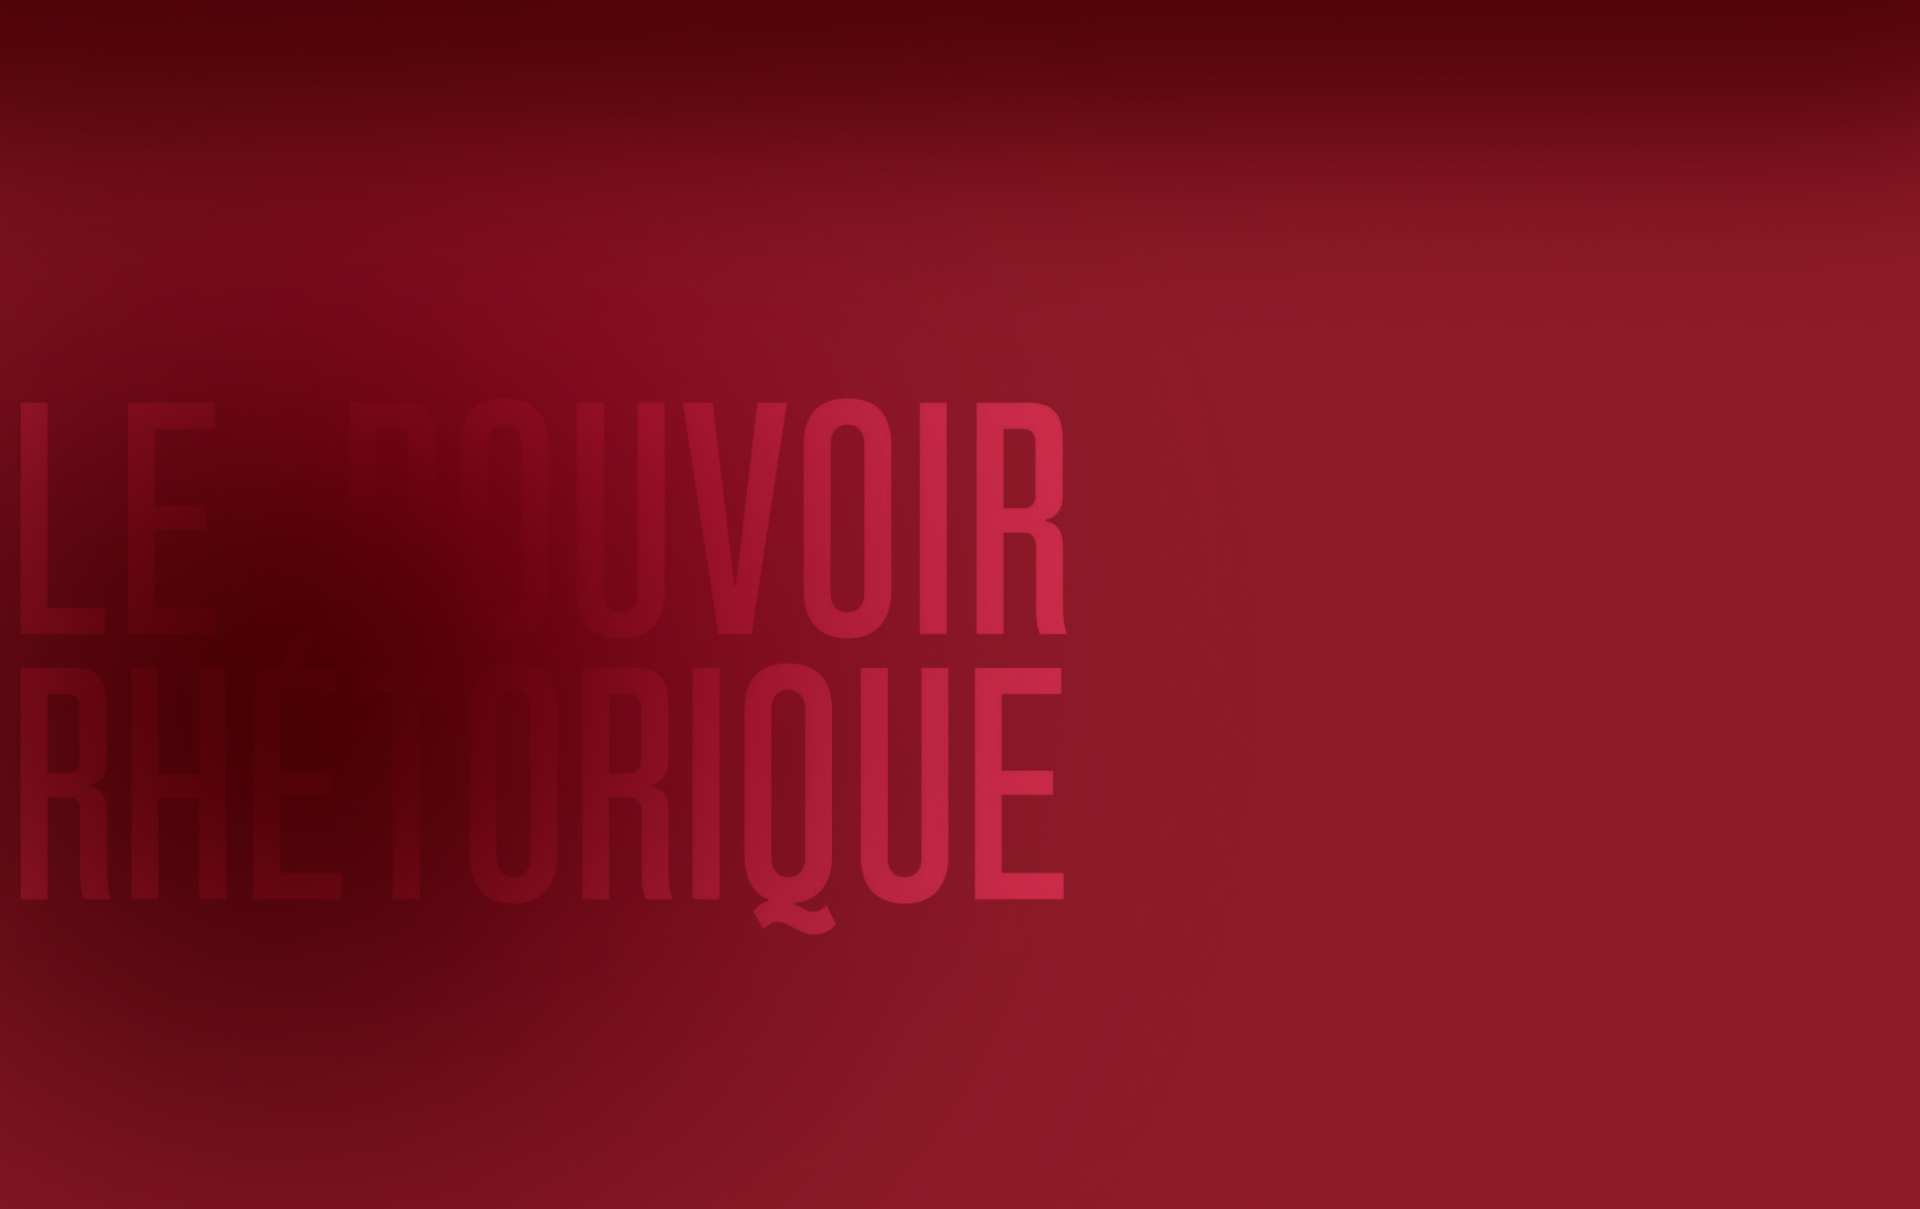
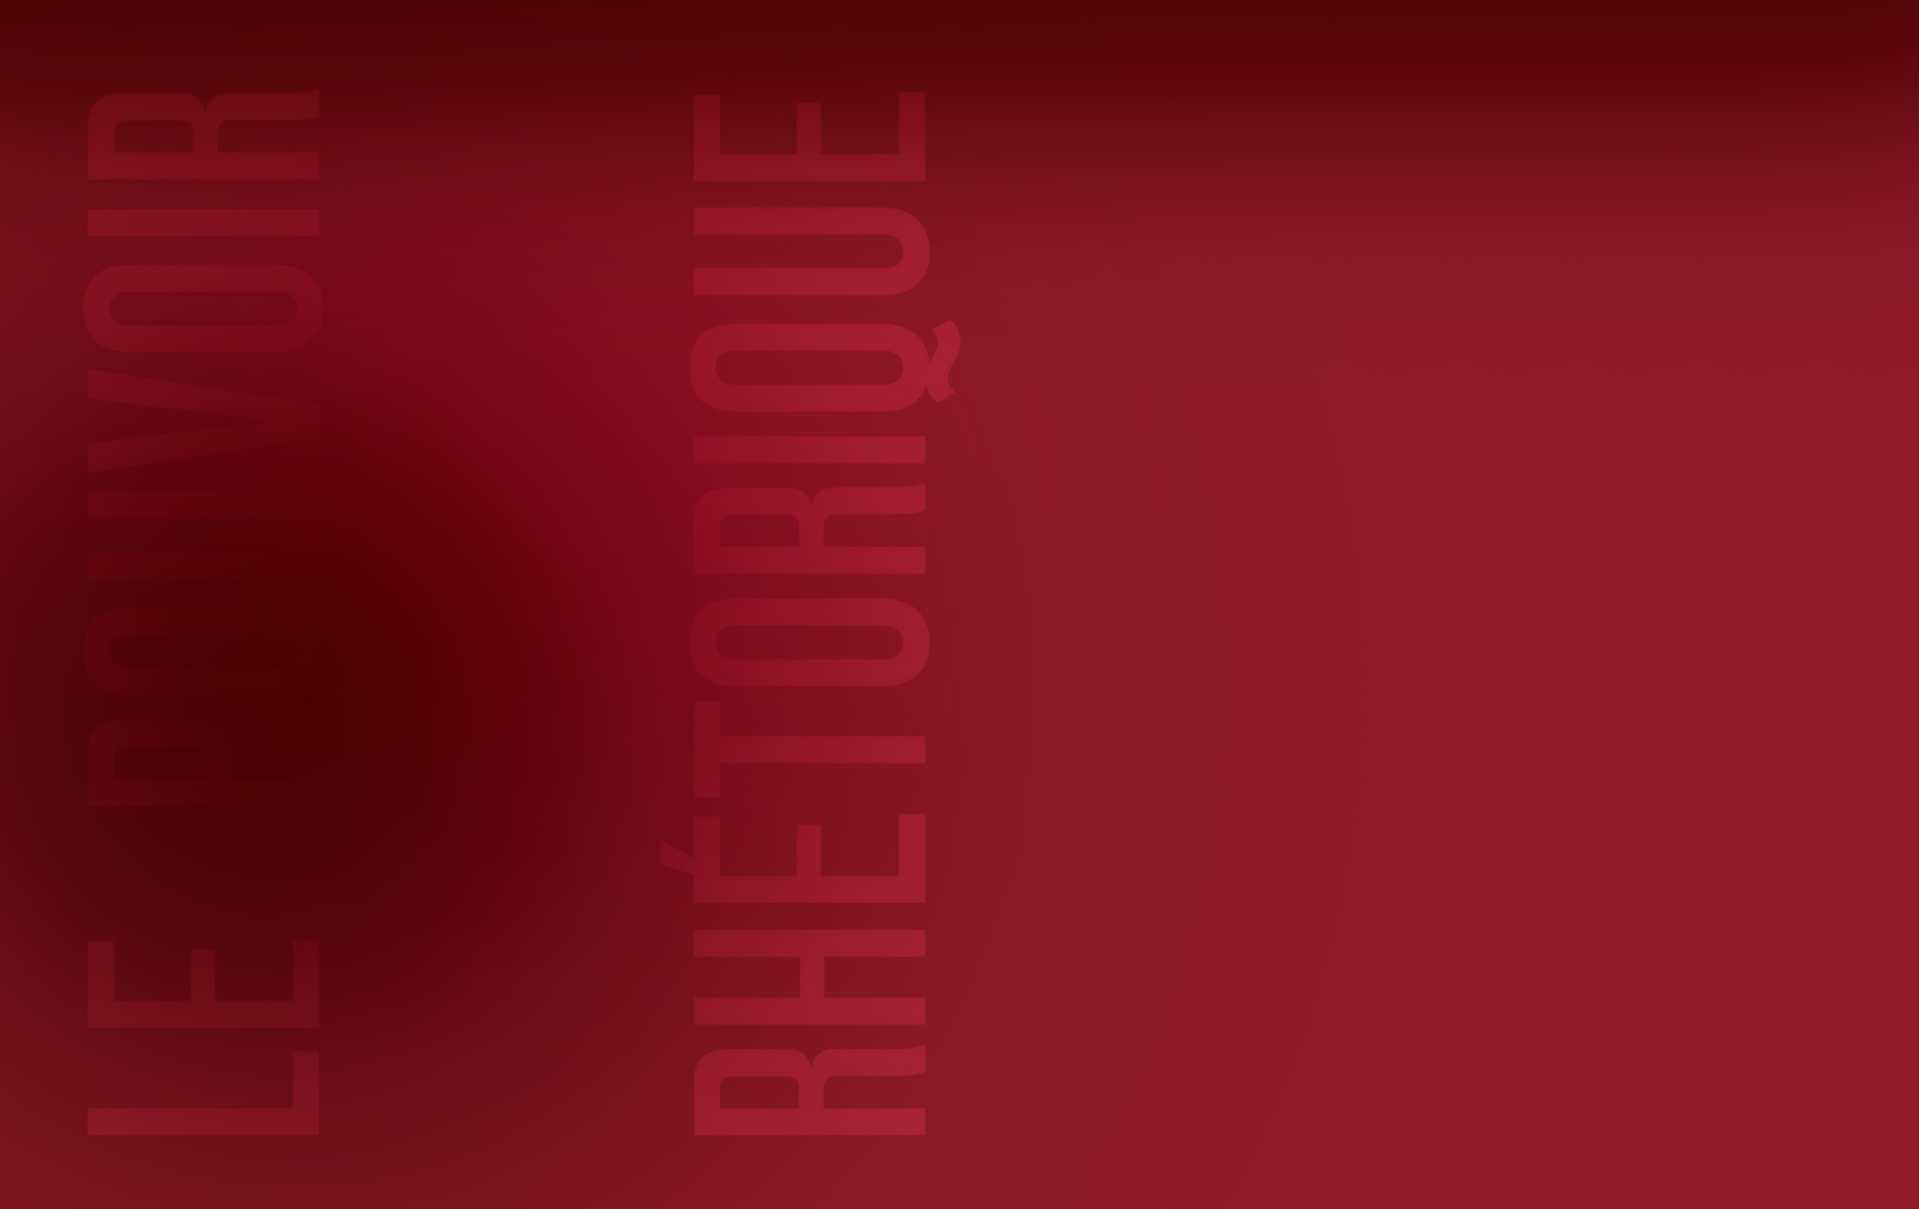
Quelques modifications
- Modification résumé spectacle
- Modification arrière-plan livre
- Ajout d'une page au caroussel
- Ajout Crédits
- Ajout Contacts

Changed region(s): [[0.3075, 0.0918, 0.5534, 0.9487], [0.0, 0.5509, 0.0615, 0.7651], [0.0, 0.3366, 0.0307, 0.5203]]

diff --git a/layouts/index.html b/layouts/index.html
@@ -31,11 +31,11 @@
                                         <div class="font-['Open_Sans_ExtraBold']">
                                             {{ $img_spectacle_titre := resources.Get "img/spectacle-titre.png" }}
                                             <img
-                                                class="max-h-[28rem]"
+                                                class="max-h-96"
                                                 src="{{ $img_spectacle_titre.RelPermalink }}"
                                                 alt="L'art de ne pas dire" />
                                             <button
-                                                class="__carousel_next mt-12 flex items-center border-[3px] border-[#d50d3d] px-2 py-1 text-sm font-bold uppercase">
+                                                class="__carousel_next mt-16 flex items-center border-[3px] border-[#d50d3d] px-2 py-1 text-sm font-bold uppercase">
                                                 <span>En savoir plus</span>
                                                 <span
                                                     class="icon-[ic--sharp-chevron-right] h-5 w-5 items-center"></span>
@@ -71,7 +71,19 @@
                                                 manipulations, ce qui a été perverti, ne serait-ce pas, en réalité, le
                                                 sens même de la démocratie ?
                                             </p>
-                                            <div class="mt-16 flex gap-4 font-['Open_Sans'] font-extrabold">
+                                            <div class="my-6 grid grid-cols-1 gap-2 lg:grid-cols-2 lg:gap-4">
+                                                <div class="flex flex-col gap-2">
+                                                    <p>Interprétation&nbsp;: Clément Viktorovitch</p>
+                                                    <p>Écriture&nbsp;: Ferdinand Barbet et Clément Viktorovitch</p>
+                                                    <p>Mise en scène et Scénographie&nbsp;: Ferdinand Barbet</p>
+                                                </div>
+                                                <div class="flex flex-col gap-2">
+                                                    <p>Création lumière&nbsp;: Gautier Devoucoux</p>
+                                                    <p>Musiques&nbsp;: Hugo Sempé</p>
+                                                    <p>Création costume&nbsp;: Augustin Rolland</p>
+                                                </div>
+                                            </div>
+                                            <div class="flex gap-4 font-['Open_Sans'] font-extrabold">
                                                 <button
                                                     class="__carousel_prev flex items-center border-[3px] border-[#d50d3d] px-2 py-1 text-sm font-bold uppercase">
                                                     <span
@@ -86,6 +98,160 @@
                                                 </button>
                                             </div>
                                         </div>
+                                    </div>
+                                </div>
+                            </div>
+                            <div class="min-h-full flex-[0_0_100%] flex-row bg-black duration-500 ease-in">
+                                {{ $img_clemovitch_theatre2 := resources.Get "img/clemovitch-theatre2.png" }}
+                                <div
+                                    class="relative mt-[15%] bg-cover bg-left px-10 pb-28 pt-10 sm:px-12 md:mt-0 md:px-16 lg:px-20"
+                                    style="background-image: url('{{ $img_clemovitch_theatre2.RelPermalink }}');">
+                                    <div class="flex flex-wrap justify-center gap-10">
+                                        <div class="inline-block max-w-96">
+                                            <div class="flex flex-col gap-7">
+                                                <svg
+                                                    class="fill-[#d50d3d]"
+                                                    version="1.2"
+                                                    xmlns="http://www.w3.org/2000/svg"
+                                                    viewBox="0 0 42 32"
+                                                    width="42"
+                                                    height="32">
+                                                    <path
+                                                        d="m13.3 0.6h8.8l-4.4 30.8h-17.6zm19.8 0h8.8l-4.4 30.8h-17.6z" />
+                                                </svg>
+                                                <p>
+                                                    Une démonstration limpide et éclairante sur le creux abyssal des
+                                                    éléments de langage, le tout agrémenté de jeux interactifs auxquels
+                                                    les spectateurs participent sans hésiter, heureux de gamberger sur
+                                                    les pièges de la parole politique.
+                                                </p>
+                                                {{ $img_le_monde := resources.Get "img/le-monde.png" }}
+                                                <img class="ml-auto w-1/2" src="{{ $img_le_monde.RelPermalink }}" />
+                                            </div>
+                                        </div>
+                                        <div class="inline-block max-w-96">
+                                            <div class="flex flex-col gap-7">
+                                                <svg
+                                                    class="fill-[#d50d3d]"
+                                                    version="1.2"
+                                                    xmlns="http://www.w3.org/2000/svg"
+                                                    viewBox="0 0 42 32"
+                                                    width="42"
+                                                    height="32">
+                                                    <path
+                                                        d="m13.3 0.6h8.8l-4.4 30.8h-17.6zm19.8 0h8.8l-4.4 30.8h-17.6z" />
+                                                </svg>
+                                                <p>
+                                                    Une démonstration limpide et éclairante sur le creux abyssal des
+                                                    éléments de langage, le tout agrémenté de jeux interactifs auxquels
+                                                    les spectateurs participent sans hésiter, heureux de gamberger sur
+                                                    les pièges de la parole politique.
+                                                </p>
+                                                {{ $img_le_monde := resources.Get "img/le-monde.png" }}
+                                                <img class="ml-auto w-1/2" src="{{ $img_le_monde.RelPermalink }}" />
+                                            </div>
+                                        </div>
+                                        <div class="inline-block max-w-96">
+                                            <div class="flex flex-col gap-7">
+                                                <svg
+                                                    class="fill-[#d50d3d]"
+                                                    version="1.2"
+                                                    xmlns="http://www.w3.org/2000/svg"
+                                                    viewBox="0 0 42 32"
+                                                    width="42"
+                                                    height="32">
+                                                    <path
+                                                        d="m13.3 0.6h8.8l-4.4 30.8h-17.6zm19.8 0h8.8l-4.4 30.8h-17.6z" />
+                                                </svg>
+                                                <p>
+                                                    Une démonstration limpide et éclairante sur le creux abyssal des
+                                                    éléments de langage, le tout agrémenté de jeux interactifs auxquels
+                                                    les spectateurs participent sans hésiter, heureux de gamberger sur
+                                                    les pièges de la parole politique.
+                                                </p>
+                                                {{ $img_le_monde := resources.Get "img/le-monde.png" }}
+                                                <img class="ml-auto w-1/2" src="{{ $img_le_monde.RelPermalink }}" />
+                                            </div>
+                                        </div>
+                                        <div class="hidden max-w-96 min-[920px]:inline-block">
+                                            <div class="flex flex-col gap-7">
+                                                <svg
+                                                    class="fill-[#d50d3d]"
+                                                    version="1.2"
+                                                    xmlns="http://www.w3.org/2000/svg"
+                                                    viewBox="0 0 42 32"
+                                                    width="42"
+                                                    height="32">
+                                                    <path
+                                                        d="m13.3 0.6h8.8l-4.4 30.8h-17.6zm19.8 0h8.8l-4.4 30.8h-17.6z" />
+                                                </svg>
+                                                <p>
+                                                    Une démonstration limpide et éclairante sur le creux abyssal des
+                                                    éléments de langage, le tout agrémenté de jeux interactifs auxquels
+                                                    les spectateurs participent sans hésiter, heureux de gamberger sur
+                                                    les pièges de la parole politique.
+                                                </p>
+                                                {{ $img_le_monde := resources.Get "img/le-monde.png" }}
+                                                <img class="ml-auto w-1/2" src="{{ $img_le_monde.RelPermalink }}" />
+                                            </div>
+                                        </div>
+                                        <div class="hidden max-w-96 min-[1321px]:inline-block">
+                                            <div class="flex flex-col gap-7">
+                                                <svg
+                                                    class="fill-[#d50d3d]"
+                                                    version="1.2"
+                                                    xmlns="http://www.w3.org/2000/svg"
+                                                    viewBox="0 0 42 32"
+                                                    width="42"
+                                                    height="32">
+                                                    <path
+                                                        d="m13.3 0.6h8.8l-4.4 30.8h-17.6zm19.8 0h8.8l-4.4 30.8h-17.6z" />
+                                                </svg>
+                                                <p>
+                                                    Une démonstration limpide et éclairante sur le creux abyssal des
+                                                    éléments de langage, le tout agrémenté de jeux interactifs auxquels
+                                                    les spectateurs participent sans hésiter, heureux de gamberger sur
+                                                    les pièges de la parole politique.
+                                                </p>
+                                                {{ $img_le_monde := resources.Get "img/le-monde.png" }}
+                                                <img class="ml-auto w-1/2" src="{{ $img_le_monde.RelPermalink }}" />
+                                            </div>
+                                        </div>
+                                        <div class="hidden max-w-96 min-[1321px]:inline-block">
+                                            <div class="flex flex-col gap-7">
+                                                <svg
+                                                    class="fill-[#d50d3d]"
+                                                    version="1.2"
+                                                    xmlns="http://www.w3.org/2000/svg"
+                                                    viewBox="0 0 42 32"
+                                                    width="42"
+                                                    height="32">
+                                                    <path
+                                                        d="m13.3 0.6h8.8l-4.4 30.8h-17.6zm19.8 0h8.8l-4.4 30.8h-17.6z" />
+                                                </svg>
+                                                <p>
+                                                    Une démonstration limpide et éclairante sur le creux abyssal des
+                                                    éléments de langage, le tout agrémenté de jeux interactifs auxquels
+                                                    les spectateurs participent sans hésiter, heureux de gamberger sur
+                                                    les pièges de la parole politique.
+                                                </p>
+                                                {{ $img_le_monde := resources.Get "img/le-monde.png" }}
+                                                <img class="ml-auto w-1/2" src="{{ $img_le_monde.RelPermalink }}" />
+                                            </div>
+                                        </div>
+                                    </div>
+                                    <div
+                                        class="absolute bottom-0 left-0 mb-10 mt-16 flex w-full justify-between gap-4 px-10 font-['Open_Sans'] font-extrabold sm:px-12 md:px-16 lg:px-20">
+                                        <button
+                                            class="__carousel_prev flex items-center border-[3px] border-[#d50d3d] px-2 py-1 text-sm font-bold uppercase">
+                                            <span class="icon-[ic--sharp-chevron-left] h-5 w-5 items-center"></span>
+                                            <span>Retour</span>
+                                        </button>
+                                        <button
+                                            class="__carousel_next flex items-center border-[3px] border-[#d50d3d] px-2 py-1 text-sm font-bold uppercase">
+                                            <span>En savoir plus</span>
+                                            <span class="icon-[ic--sharp-chevron-right] h-5 w-5 items-center"></span>
+                                        </button>
                                     </div>
                                 </div>
                             </div>
@@ -291,9 +457,9 @@
                 </template>
             </section>
 
-            <section id="contact" class="mx-auto flex flex-col items-center bg-black py-16 text-center">
+            <section id="contact" class="mx-auto flex flex-col items-center bg-black pt-16 text-center">
                 <h2 class="py-4 text-5xl uppercase">Contact</h2>
-                <div class="flex gap-1.5">
+                <div class="flex gap-1.5 pb-16">
                     {{ $icon_twitch := resources.Get "icon/twitch.svg" }}
                     <a
                         href="//twitch.tv/clemovitch"
@@ -324,6 +490,16 @@
                         target="_blank"
                         class="h-7 w-7 bg-current text-[#d50d3d]"
                         style="mask-image: url('{{ $icon_facebook.RelPermalink }}');"></a>
+                </div>
+                <div class="text-sm">
+                    <p>
+                        <b>Clément Viktorovitch&nbsp;: </b>
+                        <a href="mailto:gilles@clemovitch.com">gilles@clemovitch.com</a>
+                    </p>
+                    <p>
+                        <b>Gilles Mattana&nbsp;: </b>
+                        <a href="mailto:quoideneuf@clemovitch.com">quoideneuf@clemovitch.com</a>
+                    </p>
                 </div>
             </section>
         </main>

diff --git a/layouts/partials/footer.html b/layouts/partials/footer.html
@@ -1,3 +1,44 @@
-<footer class="bg-black p-6">
-    <p class="text-center text-sm">© 2024 Clément Viktorovitch. Tous droits réservés.</p>
+<footer class="bg-black p-6 text-sm">
+    <ul class="mb-4 list-none text-center">
+        <li class="inline-block">
+            <a class="hover:cursor-pointer" onClick="document.querySelector('dialog#credits').showModal();">Crédits</a>
+        </li>
+    </ul>
+    <p class="text-center text-sm">© Tous droits réservés</p>
+
+    <dialog id="credits" class="min-w-full bg-[#d50d3d] text-white sm:min-w-[600px]">
+        <div class="relative px-12 py-5">
+            <button
+                class="absolute right-4 top-4"
+                autofocus
+                onClick="document.querySelector('dialog#credits').close();">
+                <svg version="1.2" xmlns="http://www.w3.org/2000/svg" viewBox="0 0 28 28" width="28" height="28">
+                    <path d="m2 23.2l21.2-21.2 3.5 3.5-21.2 21.2zm3.6-21.9l21.2 21.2-3.6 3.6-21.2-21.3z" />
+                </svg>
+            </button>
+            <h2 class="text-4xl uppercase">Crédits</h2>
+            <div class="my-8 flex flex-col gap-2">
+                <div class="flex w-full flex-nowrap gap-4 text-nowrap">
+                    <span class="content-center font-semibold">Management</span>
+                    <span class="w-full border-b border-stone-300"></span>
+                    <a class="text-sm" href="" target="_blank">Gilles Mattana</a>
+                </div>
+                <div class="flex w-full flex-nowrap gap-4 text-nowrap">
+                    <span class="content-center font-semibold">Photographies</span>
+                    <span class="w-full border-b border-stone-300"></span>
+                    <a class="text-sm" href="" target="_blank">Sarah Jocteur</a>
+                </div>
+                <div class="flex w-full flex-nowrap gap-4 text-nowrap">
+                    <span class="content-center font-semibold">Développement</span>
+                    <span class="w-full border-b border-stone-300"></span>
+                    <a class="text-sm" href="" target="_blank">Lyanis Souidi</a>
+                </div>
+                <div class="flex w-full flex-nowrap gap-4 text-nowrap">
+                    <span class="content-center font-semibold">Design</span>
+                    <span class="w-full border-b border-stone-300"></span>
+                    <a class="text-sm" href="" target="_blank">Thomas Balland</a>
+                </div>
+            </div>
+        </div>
+    </dialog>
 </footer>
